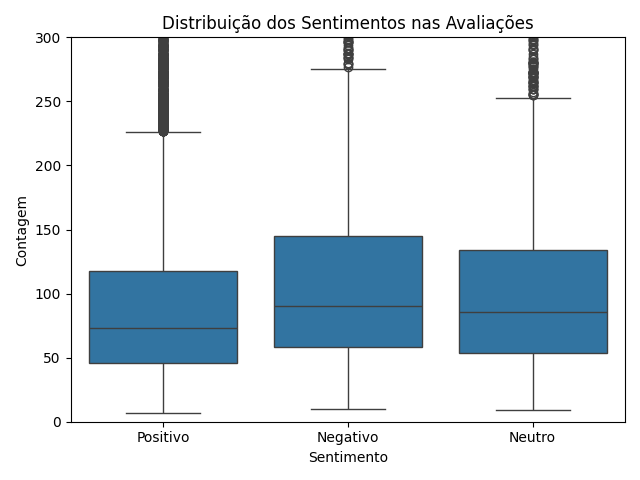
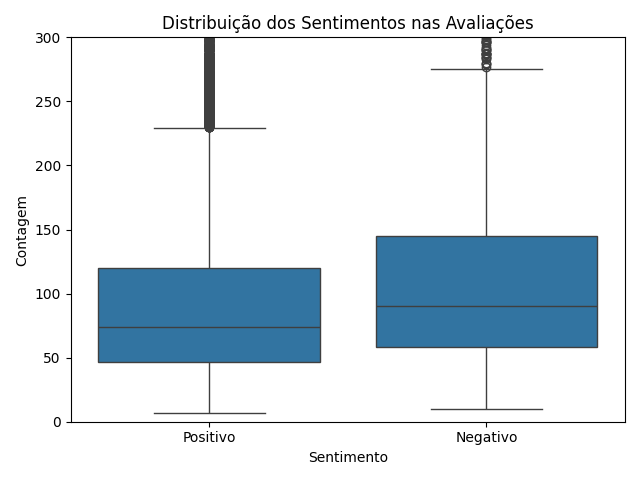
treinamento do modelo

diff --git a/analysis/analysis.py b/analysis/analysis.py
@@ -23,7 +23,12 @@ from nltk.stem import WordNetLemmatizer
 nltk.download('wordnet')
 nltk.download('omw-1.4')
 
+from sklearn.model_selection import train_test_split
+from sklearn.linear_model import LogisticRegression
 from sklearn.feature_extraction.text import TfidfVectorizer
+from sklearn.metrics import accuracy_score
+from sklearn.metrics import classification_report
+
 
 # %%
 
@@ -57,7 +62,7 @@ df['Rating'].value_counts()
 
 # Criar coluna sentimento no dataset
 
-df['Sentiment'] = df['Rating'].map(lambda x: 'Positivo' if x >= 4 else 'Negativo' if x <= 2 else 'Neutro')
+df['Sentiment'] = df['Rating'].map(lambda x: 'Positivo' if x >= 3 else 'Negativo')
 df['Sentiment'].value_counts()
 # %%
 
@@ -67,7 +72,7 @@ porcentagem_sentimentos = df['Sentiment'].value_counts(normalize=True) * 100
 porcentagem_sentimentos.head()
 # %%
 
-sns.countplot(x='Sentiment', data=df, order=['Positivo', 'Neutro', 'Negativo'])
+sns.countplot(x='Sentiment', data=df, order=['Positivo', 'Negativo'])
 
 ax = plt.gca()
 ax.bar_label(ax.containers[0])
@@ -95,7 +100,7 @@ print(words_sentiment)
 
 # Resultado confirma hipótese:
 # Hóspedes insatisfeitos escrevem mais
-# Reviews negativas têm em média 120 palavras contra 99 das positivas
+# Reviews negativas têm em média 120 palavras contra 101 das positivas
 
 # %%
 
@@ -229,4 +234,69 @@ def preprocess(text):
 
 df['Review_Clean'] = df['Review'].apply(preprocess)
 df[['Review', 'Review_Clean']].head()
+# %%
+
+# 5. Vetorizar e treinar o modelo
+
+X = df['Review_Clean']
+y = df['Sentiment']
+# %%
+
+X_train, X_test, y_train, y_test = train_test_split (
+    X, y, test_size=0.2, random_state=42
+)
+# %%
+
+vectorizer = TfidfVectorizer(max_features=5000, ngram_range=(1,2))
+# %%
+
+# fit apenas no treino para evitar data leakage
+
+X_train_tfidf = vectorizer.fit_transform(X_train)
+# %%
+
+X_test_tfidf = vectorizer.transform(X_test)
+# %%
+
+# treinar o modelo
+# a amostra está muito desbalanceada, tratamos o desbalanceamento
+
+model = LogisticRegression(class_weight='balanced')
+model.fit(X_train_tfidf, y_train)
+# %%
+y_pred = model.predict(X_test_tfidf)
+# %%
+
+# avaliar o modelo de regressão logistica
+
+accuracy = accuracy_score(y_test, y_pred)
+print(accuracy)
+# %%
+
+print(classification_report(y_test, y_pred))
+
+# modelo atinge 93% de acurácia, com excelente desempenho na classe positiva e alto recall para negativos.
+# importante para capturar avaliações insatisfeitas
+
+# %%
+
+# teste sem balanceamento
+
+model = LogisticRegression()
+model.fit(X_train_tfidf, y_train)
+# %%
+y_pred = model.predict(X_test_tfidf)
+# %%
+
+# avaliar o modelo de regressão logistica
+
+accuracy = accuracy_score(y_test, y_pred)
+print(accuracy)
+# %%
+
+print(classification_report(y_test, y_pred))
+
+# Sem balanceamento obtive maior accuracy (94%), mas com perda significativa de recall para a classe negativa
+# Com base no objetivo do negócio, maximizar o recall da classe negativa é mais importante do que a acurácia geral, já que perder avaliações negativas significaria 
+# ignorar potenciais problemas operacionais. Dessa forma, optei por utilizar o modelo com class_weight='balanced'
 # %%
